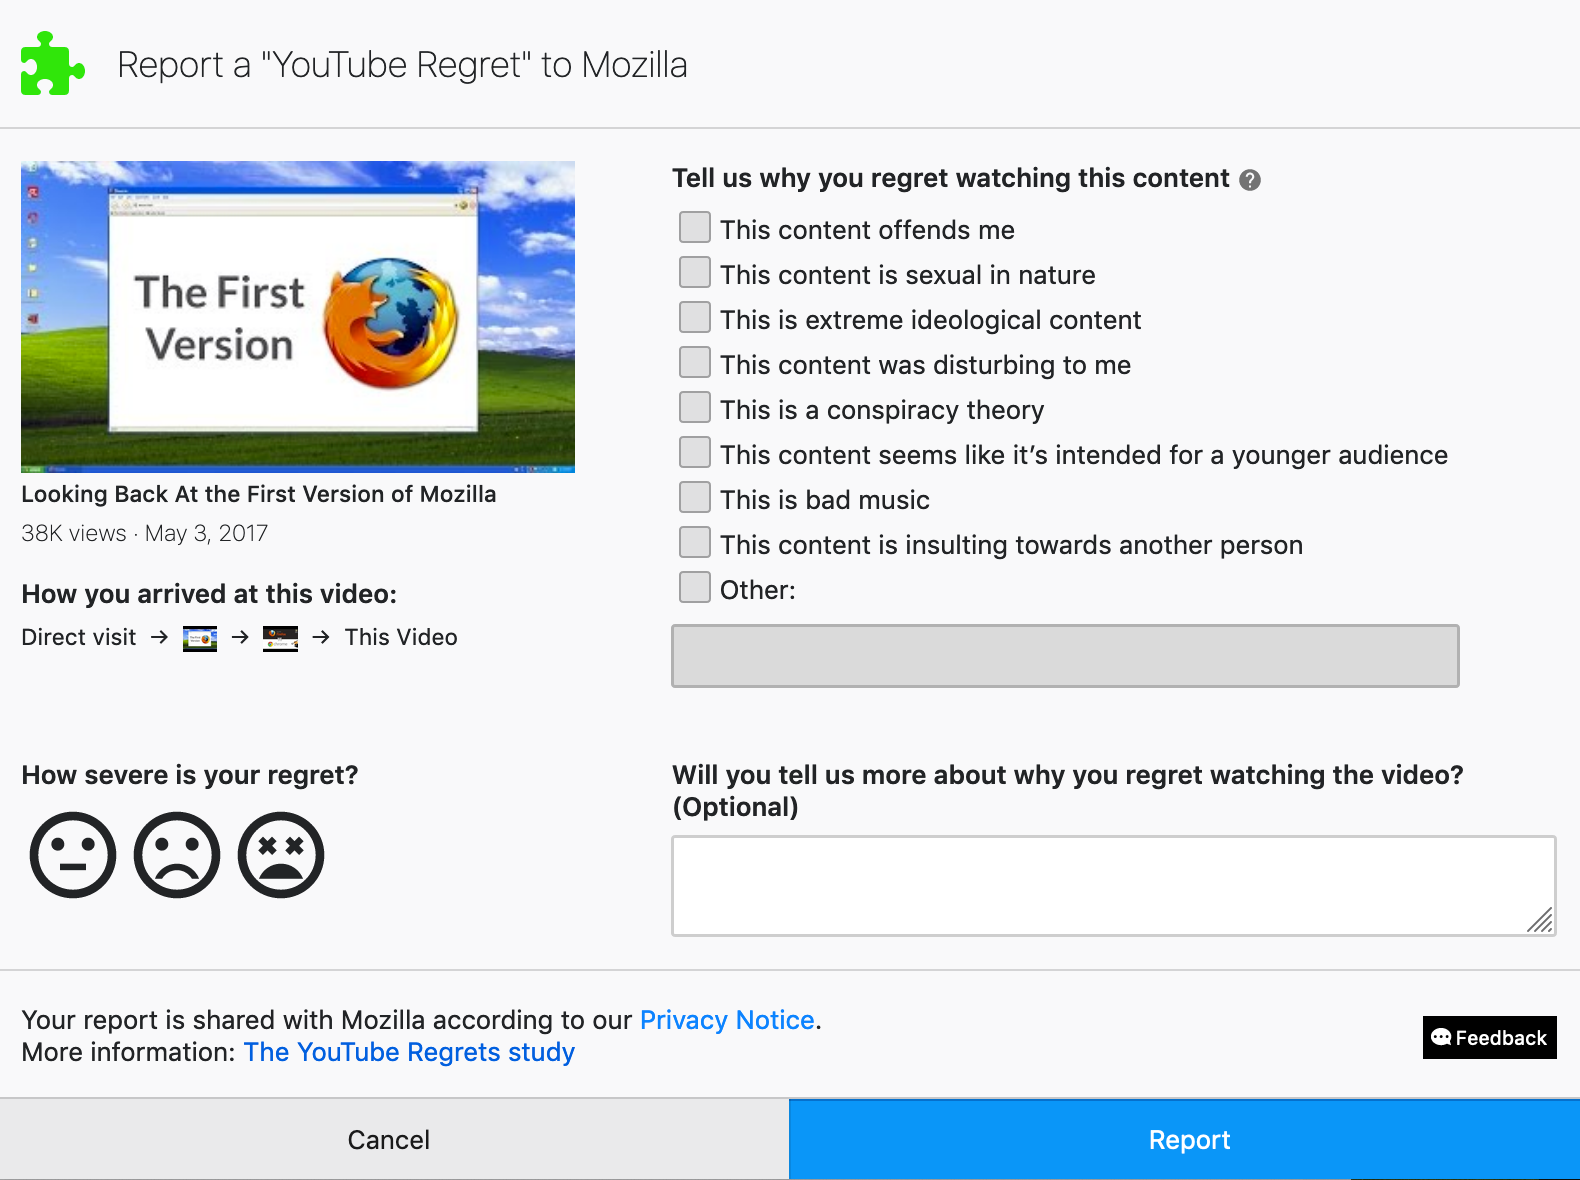
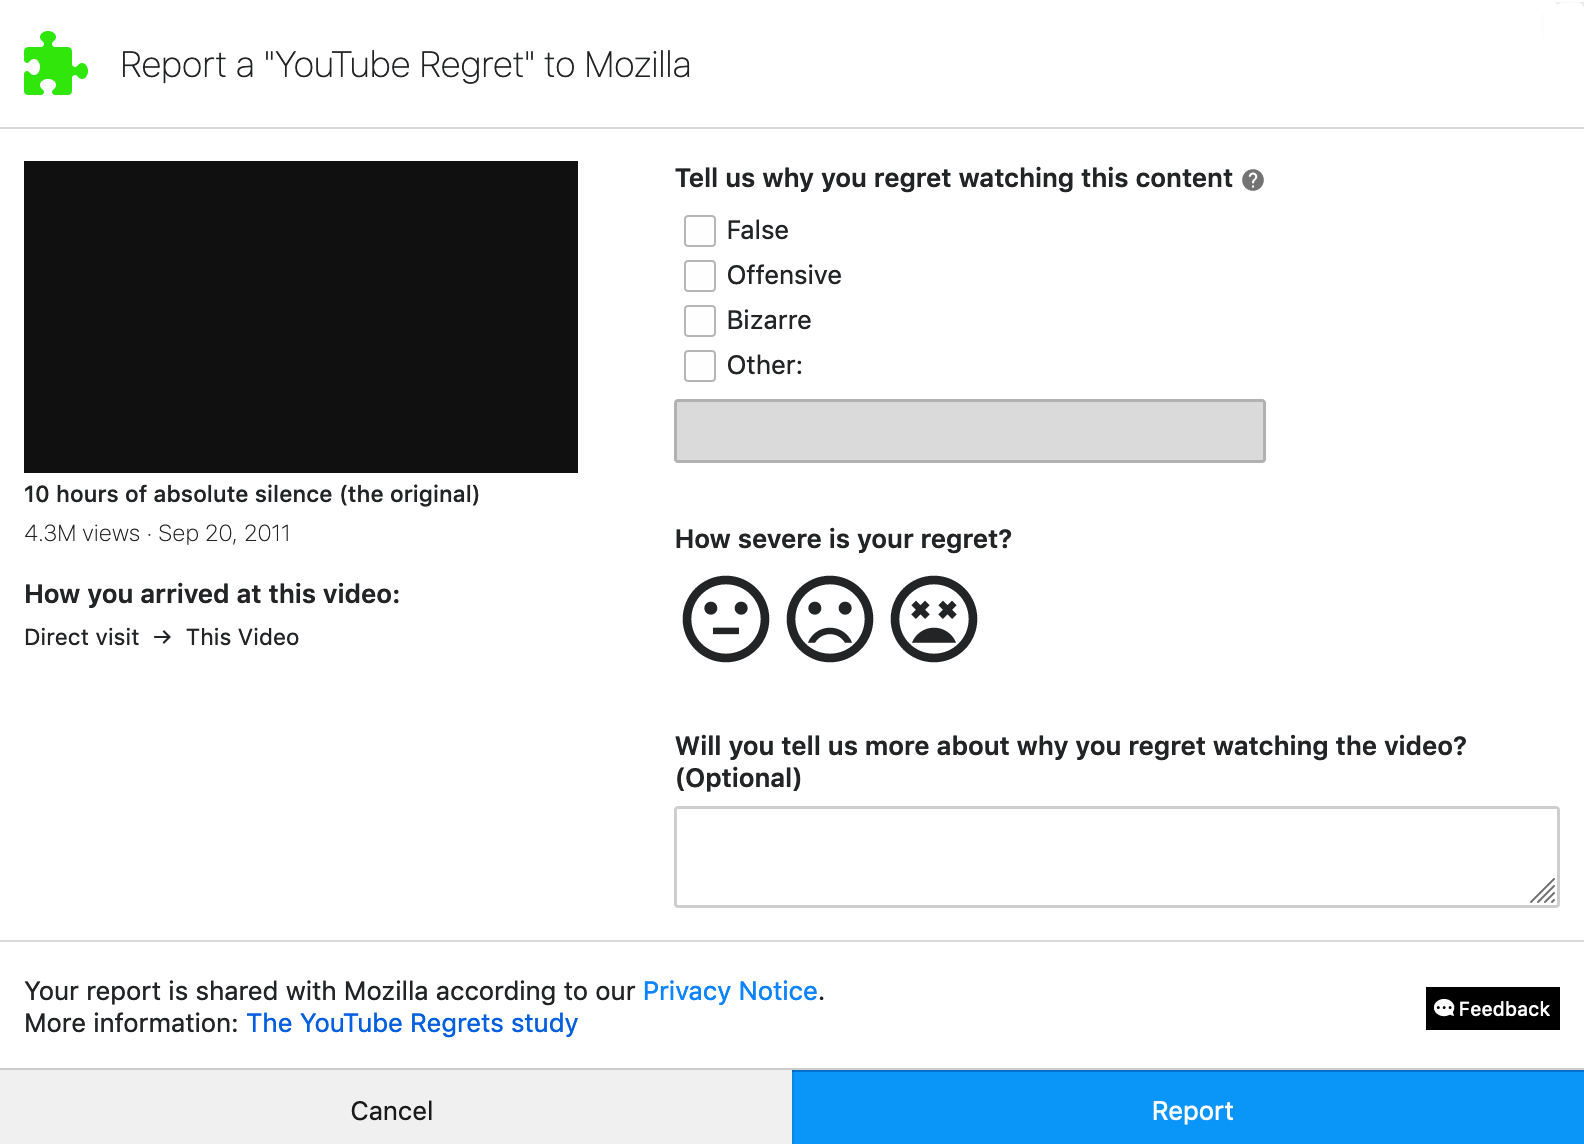
Simplified regret categories and moved severity rating to the right side of the form

diff --git a/extension/ts/report-regret-form.js/ReportRegretForm.tsx b/extension/ts/report-regret-form.js/ReportRegretForm.tsx
@@ -329,7 +329,7 @@ export class ReportRegretForm extends Component<
 
         <div className="px-0">
           <div className="grid grid-cols-5 gap-4 -mx-0">
-            <div className="col-span-2 px-0">
+            <div className="col-span-2 row-span-3 px-0">
               <div className="panel-section panel-section-formElements">
                 <div className="panel-formElements-item">
                   <div className="flex-1 mr-1">
@@ -360,7 +360,7 @@ export class ReportRegretForm extends Component<
                       <label className="label-bold">
                         How you arrived at this video:
                       </label>
-                      <ul className="list-breadcrumb my-2 text-sm overflow-y-auto h-14">
+                      <ul className="list-breadcrumb my-2 text-sm overflow-y-auto h-48">
                         <li className="inline">
                           {
                             youTubePageEntryPointLabels[
@@ -430,38 +430,16 @@ export class ReportRegretForm extends Component<
                     <ul className="list-none">
                       {[
                         {
-                          value: "offends-me",
-                          label: "This content offends me",
+                          value: "false",
+                          label: "False",
                         },
                         {
-                          value: "sexual-in-nature",
-                          label: "This content is sexual in nature",
+                          value: "offensive",
+                          label: "Offensive",
                         },
                         {
-                          value: "extreme-ideological",
-                          label: "This is extreme ideological content",
-                        },
-                        {
-                          value: "disturbing",
-                          label: "This content was disturbing to me",
-                        },
-                        {
-                          value: "conspiracy-theory",
-                          label: "This is a conspiracy theory",
-                        },
-                        {
-                          value: "intended-for-a-younger-audience",
-                          label:
-                            "This content seems like it’s intended for a younger audience",
-                        },
-                        {
-                          value: "bad-music",
-                          label: "This is bad music",
-                        },
-                        {
-                          value: "insulting-towards-another-person",
-                          label:
-                            "This content is insulting towards another person",
+                          value: "bizarre",
+                          label: "Bizarre",
                         },
                       ].map(item => (
                         <li key={item.value} className="mb-2">
@@ -518,9 +496,7 @@ export class ReportRegretForm extends Component<
                 </div>
               </div>
             </div>
-          </div>
-          <div className="grid grid-cols-5 gap-4 -mx-0">
-            <div className="col-span-2 px-0">
+            <div className="col-span-3 px-0">
               <div className="pt-0 panel-section panel-section-formElements">
                 <div className="">
                   <div className="w-full">
